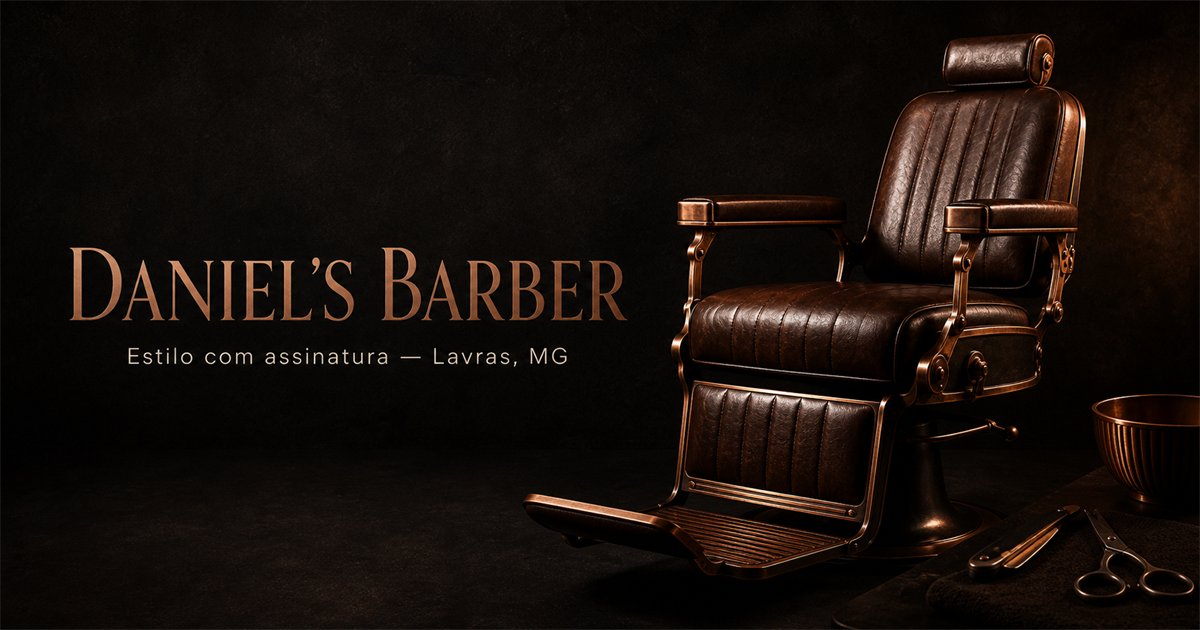
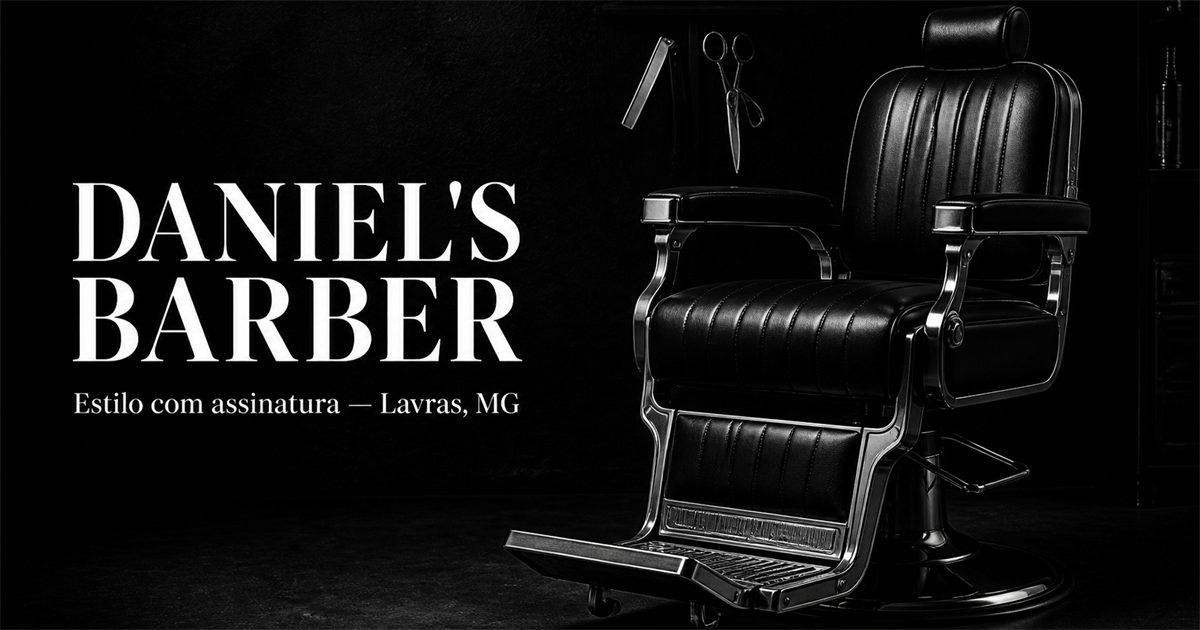
Refina identidade monocromatica e calendario

diff --git a/app/globals.css b/app/globals.css
@@ -1,11 +1,11 @@
 :root {
-  --ink:#11110f;
-  --ink-soft:#181714;
-  --paper:#f3efe6;
-  --paper-deep:#e7dfd1;
-  --copper:#b98256;
-  --copper-light:#d5a276;
-  --muted:#969087;
+  --ink:#090909;
+  --ink-soft:#171717;
+  --paper:#f4f4f1;
+  --paper-deep:#e7e7e3;
+  --copper:#ffffff;
+  --copper-light:#dedede;
+  --muted:#909090;
   --line-dark:rgba(17,17,15,.15);
   --line-light:rgba(243,239,230,.16);
 }
@@ -537,4 +537,129 @@ h1 em, h2 em, h3 em {
   .navbar .brand { padding-right:0; }
   .booking-page-hero { min-height:680px; padding-left:22px; padding-right:22px; }
   .booking-page-team { padding-top:80px; }
+}
+
+/* Monochrome identity */
+body { background:#090909; }
+.navbar,
+.navbar.is-scrolled { background:rgba(8,8,8,.97); }
+.navbar .brand-mark { color:#fff; border-color:#fff; }
+.navbar .brand:hover .brand-mark { color:#090909; background:#fff; }
+.navbar .main-nav a:hover small,
+.navbar .nav-cta small,
+.eyebrow,
+.button-link span,
+.scroll-cue i,
+.manifesto-points b,
+.barber-info small,
+.choose-label i,
+.booking-summary small,
+.booking-hero-aside a span,
+.booking-route span { color:#fff; }
+.eyebrow span,
+.scroll-cue i { background:#fff; }
+.eyebrow.dark { color:#333; }
+.eyebrow.dark span { background:#333; }
+.hero {
+  background:radial-gradient(circle at 75% 38%,#3a3a3a 0,transparent 28%),linear-gradient(120deg,#171717 0%,#080808 61%,#202020 100%);
+}
+.hero h1 em,
+.manifesto h2 em,
+.team-section h2 em,
+.booking-page-hero h1 em { color:#fff; }
+.section-heading h2 em,
+.booking-intro h2 em,
+.contact-copy h2 em { color:#111; }
+.arch { background:linear-gradient(120deg,rgba(70,70,70,.3),rgba(8,8,8,.85)); }
+.arch:before { border-color:rgba(255,255,255,.18); }
+.arch-light { background:radial-gradient(ellipse,rgba(255,255,255,.18),transparent 67%); }
+.headrest { background:linear-gradient(110deg,#111,#555 45%,#181818 75%); border-color:#777; }
+.seat { background:linear-gradient(105deg,#181818,#5c5c5c 48%,#181818); border-color:#777; }
+.base { background:linear-gradient(90deg,#444,#d0d0d0,#444); }
+.marquee { color:#090909; background:#fff; }
+.service-row:hover { background:#e7e7e3; }
+.service-row:hover .service-main strong { color:#090909; }
+.service-row:hover .service-arrow { color:#fff; background:#090909; }
+.manifesto { background:#111; }
+.manifesto-art { background:radial-gradient(circle,#454545 0,#222 38%,#090909 80%); }
+.manifesto-art:before,
+.manifesto-art:after { border-color:rgba(255,255,255,.15); }
+.manifesto-art p strong { color:#fff; }
+.blade span:first-child { background:linear-gradient(90deg,#444,#e3e3e3 48%,#666); box-shadow:0 0 35px rgba(255,255,255,.12); }
+.blade span:nth-child(2) { background:#fff; border-color:#222; }
+.blade span:last-child { background:linear-gradient(90deg,#111,#555 50%,#111); border-color:#888; }
+.team-section { background:#090909; }
+.barber-card { background:linear-gradient(145deg,#262626,#090909 65%); }
+.barber-card:hover,
+.barber-card.selected { border-color:rgba(255,255,255,.65); }
+.barber-card.selected:before { color:#090909; background:#fff; }
+.barber-portrait { border-color:rgba(255,255,255,.24); background:radial-gradient(circle at 50% 35%,#5b5b5b 0,#2c2c2c 30%,#101010 72%); }
+.mini-avatar { color:#fff; background:#171717; }
+.booking-section { background:#e7e7e3; }
+.booking-card { background:#f8f8f6; box-shadow:0 28px 70px rgba(0,0,0,.13); }
+.choice-grid label:hover { border-color:#555; }
+.choice-grid label.checked { border-color:#111; background:#e4e4e1; box-shadow:inset 3px 0 #111; }
+.choice-grid label > i,
+.choice-grid label.checked > i { color:#111; }
+legend b { color:#111; border-color:#aaa; }
+.date-strip button:hover,
+.date-strip button.active,
+.time-grid button:hover,
+.time-grid button.active { color:#fff; border-color:#111; background:#111; }
+.booking-summary button { color:#090909; background:#fff; }
+.booking-summary button:hover { color:#090909; background:#d8d8d8; }
+.form-error { color:#444; }
+.success-icon { color:#fff; background:#111; }
+.calendar-actions a:hover,
+.calendar-actions button:hover { color:#fff; border-color:#111; background:#111; }
+.contact-place { background:radial-gradient(circle at 50% 45%,#d5d5d5,transparent 35%),linear-gradient(135deg,#999,#333); }
+.dark-button:hover { background:#303030; }
+footer { background:#080808; }
+.booking-page-hero { background:radial-gradient(circle at 78% 38%,#3d3d3d 0,transparent 23%),linear-gradient(120deg,#090909 0,#1b1b1b 62%,#080808 100%); }
+.nav-location i { background:#fff; box-shadow:0 0 0 4px rgba(255,255,255,.1); }
+.navbar .nav-cta { border-color:#fff; background:rgba(255,255,255,.04); }
+.navbar .nav-cta b { color:#090909; background:#fff; }
+.navbar .nav-cta:hover { background:rgba(255,255,255,.1); }
+
+/* Full calendar control */
+.date-picker-row {
+  display:grid;
+  grid-template-columns:minmax(230px,.72fr) 1fr;
+  align-items:end;
+  gap:16px;
+  margin-bottom:15px;
+  padding:14px;
+  border:1px solid #cfcfca;
+  background:#efefec;
+}
+.date-picker-row label { display:flex; flex-direction:column; gap:8px; }
+.date-picker-row label > span { color:#444; font-size:7px; font-weight:700; letter-spacing:.15em; }
+.date-picker-row input {
+  width:100%;
+  min-height:43px;
+  padding:8px 12px;
+  color:#111;
+  border:1px solid #aaa;
+  outline:0;
+  background:#fff;
+  font-size:12px;
+  font-weight:700;
+  color-scheme:light;
+}
+.date-picker-row input:focus { border-color:#111; box-shadow:0 0 0 3px rgba(0,0,0,.08); }
+.date-picker-row p { margin:0 0 5px; color:#686868; font-size:10px; line-height:1.5; }
+.date-strip {
+  max-width:100%;
+  padding-bottom:18px;
+  overflow-x:scroll;
+  scrollbar-width:auto;
+  scrollbar-color:#111 #d8d8d3;
+  scrollbar-gutter:stable;
+}
+.date-strip::-webkit-scrollbar { height:11px; }
+.date-strip::-webkit-scrollbar-track { background:#d8d8d3; }
+.date-strip::-webkit-scrollbar-thumb { border:2px solid #d8d8d3; background:#111; }
+
+@media (max-width:560px) {
+  .date-picker-row { grid-template-columns:1fr; align-items:start; }
 }

diff --git a/app/components/BookingExperience.tsx b/app/components/BookingExperience.tsx
@@ -39,6 +39,7 @@ export default function BookingExperience() {
   const [phone, setPhone] = useState('');
   const [confirmed, setConfirmed] = useState(false);
   const [formError, setFormError] = useState('');
+  const [dateError, setDateError] = useState('');
 
   const selectedService = services.find((service) => service.id === serviceId)!;
   const selectedBarber = barbers.find((barber) => barber.id === barberId)!;
@@ -57,7 +58,7 @@ export default function BookingExperience() {
     const result: Date[] = [];
     const cursor = new Date();
     cursor.setHours(12, 0, 0, 0);
-    while (result.length < 12) {
+    while (result.length < 60) {
       if (cursor.getDay() !== 0) result.push(new Date(cursor));
       cursor.setDate(cursor.getDate() + 1);
     }
@@ -93,6 +94,16 @@ export default function BookingExperience() {
   function chooseBarber(id: string) {
     setBarberId(id);
     document.querySelector('#reservar')?.scrollIntoView({ behavior: 'smooth' });
+  }
+
+  function chooseDate(value: string) {
+    if (!value) return;
+    if (parseLocalDate(value).getDay() === 0) {
+      setDateError('A barbearia não abre aos domingos. Escolha outra data.');
+      return;
+    }
+    setDateError('');
+    setDate(value);
   }
 
   function confirmBooking(event: FormEvent) {
@@ -196,10 +207,17 @@ export default function BookingExperience() {
               </fieldset>
               <fieldset>
                 <legend><b>03</b> Escolha o dia</legend>
+                <div className="date-picker-row">
+                  <label>
+                    <span>ABRIR CALENDÁRIO COMPLETO</span>
+                    <input type="date" min={toIsoDate(new Date())} value={date} onChange={(event) => chooseDate(event.target.value)} aria-label="Escolher qualquer data futura" />
+                  </label>
+                  <p>{dateError || 'Disponível de segunda a sábado. Use o calendário ou role as sugestões abaixo.'}</p>
+                </div>
                 <div className="date-strip">
                   {nextDates.map((item) => {
                     const iso = toIsoDate(item);
-                    return <button type="button" key={iso} className={date === iso ? 'active' : ''} onClick={() => setDate(iso)}><small>{weekDays[item.getDay()]}</small><strong>{String(item.getDate()).padStart(2, '0')}</strong><span>{monthNames[item.getMonth()]}</span></button>;
+                    return <button type="button" key={iso} className={date === iso ? 'active' : ''} onClick={() => chooseDate(iso)}><small>{weekDays[item.getDay()]}</small><strong>{String(item.getDate()).padStart(2, '0')}</strong><span>{monthNames[item.getMonth()]}</span></button>;
                   })}
                 </div>
               </fieldset>
